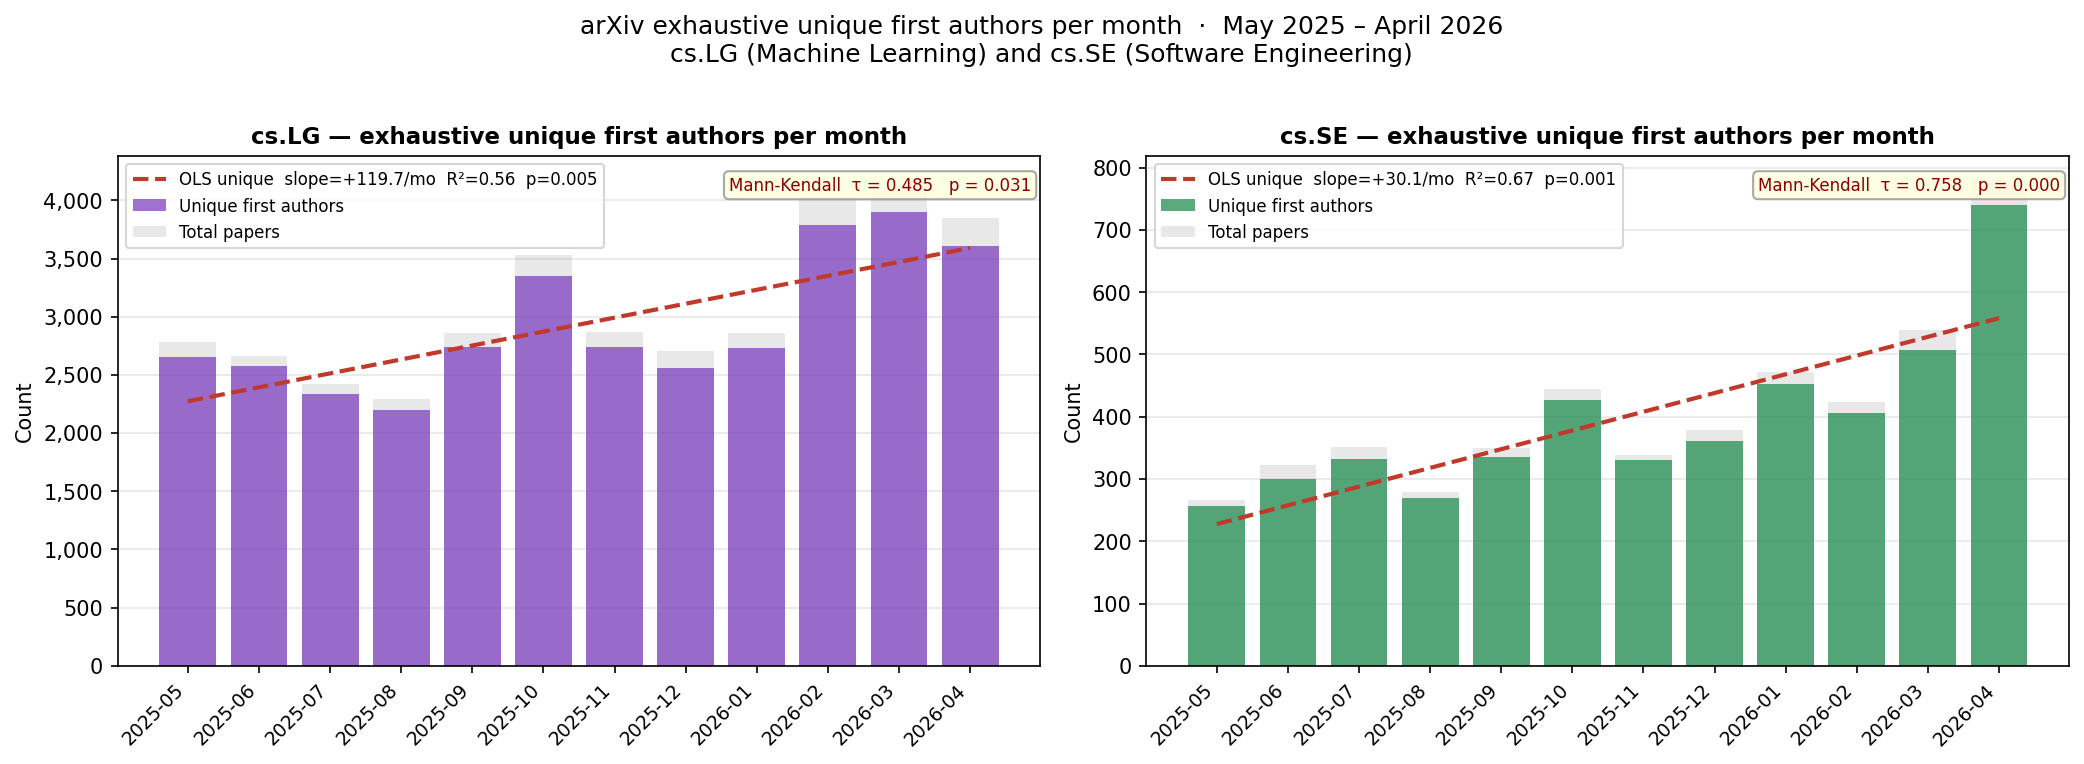
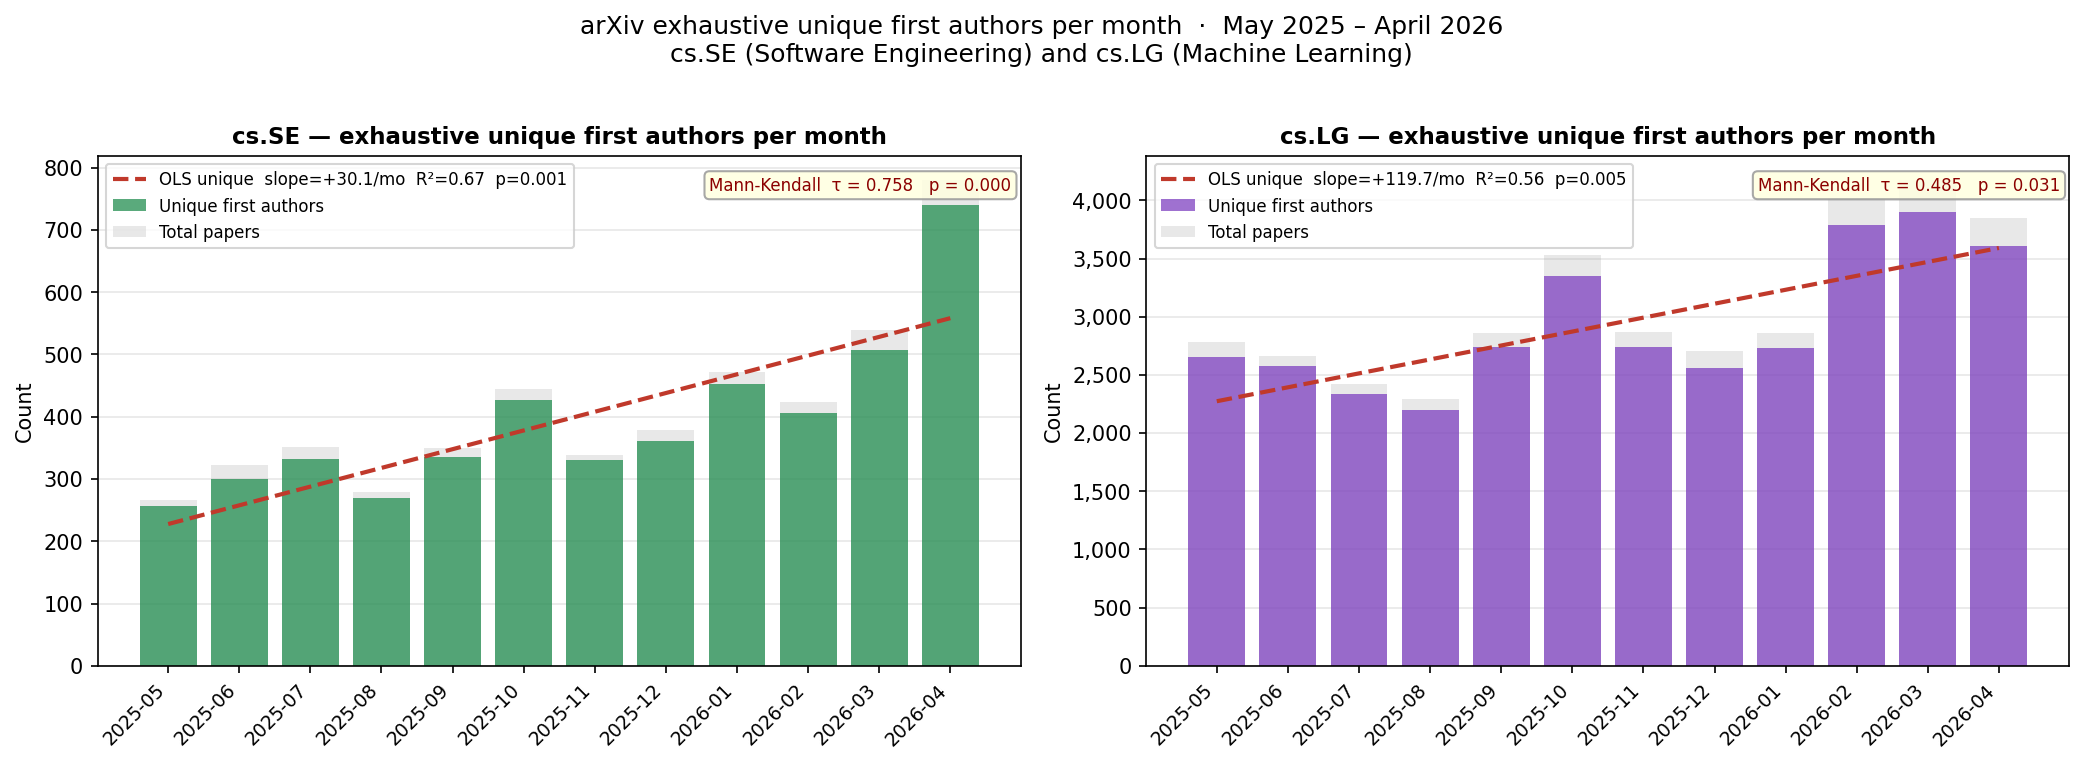
figure: swap panels — cs.SE left, cs.LG right

diff --git a/analyze.py b/analyze.py
@@ -298,8 +298,8 @@ def main():
 
 
 def make_exhaustive_figure(dfs_exh: dict):
-    """2-panel figure: cs.LG and cs.SE unique authors (exhaustive counts)."""
-    CATS   = ["cs.LG", "cs.SE"]
+    """2-panel figure: cs.SE and cs.LG unique authors (exhaustive counts)."""
+    CATS   = ["cs.SE", "cs.LG"]
     COLORS = {"cs.LG": PURPLE, "cs.SE": GREEN}
 
     fig, axes = plt.subplots(1, 2, figsize=(14, 5))
@@ -341,7 +341,7 @@ def make_exhaustive_figure(dfs_exh: dict):
 
     fig.suptitle(
         "arXiv exhaustive unique first authors per month  ·  May 2025 – April 2026\n"
-        "cs.LG (Machine Learning) and cs.SE (Software Engineering)",
+        "cs.SE (Software Engineering) and cs.LG (Machine Learning)",
         fontsize=12, y=1.01)
     plt.tight_layout()
     plt.savefig("figure_exhaustive.png", dpi=150, bbox_inches="tight")
